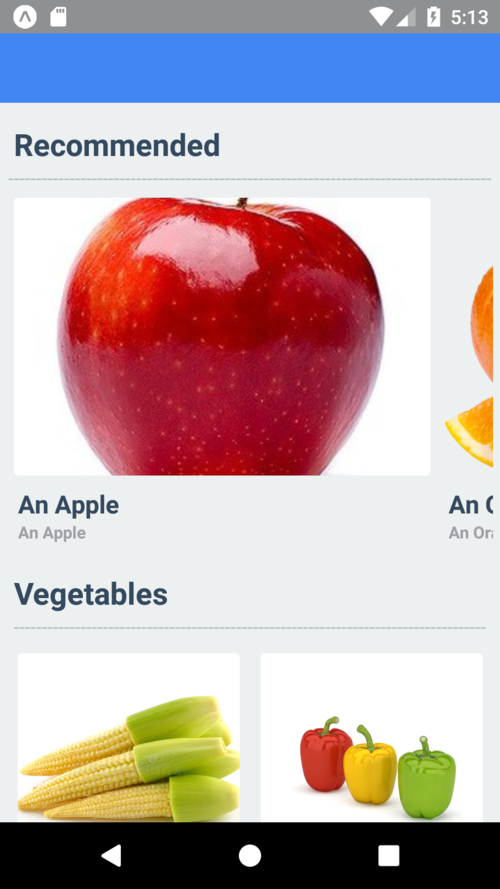
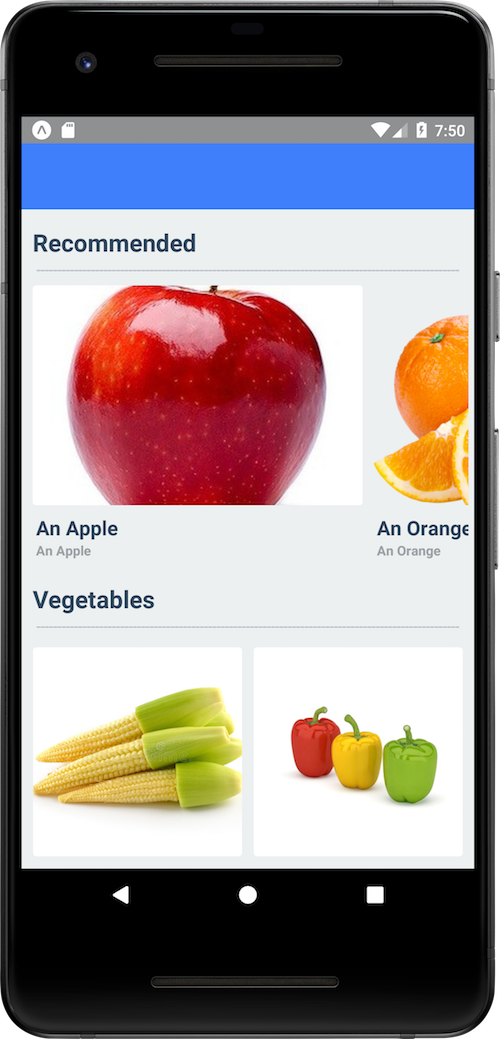
update screenshots

diff --git a/components/CarouselComponent.js b/components/CarouselComponent.js
@@ -19,7 +19,7 @@ export default class CarouselComponent extends Component {
     return (
       <View>
         <Text style={styles.paragraph}>{this.props.title}</Text>
-        <Text style={styles.underline}>---------------------------------------------------------------------------------------</Text>
+        <Text style={styles.underline}>-----------------------------------------------------------------------------------------------------</Text>
         <View style={styles.container}>
           <ListView
             horizontal={true}

diff --git a/components/GridComponent.js b/components/GridComponent.js
@@ -16,7 +16,7 @@ export default class GridComponent extends Component {
     return (
       <View>
         <Text style={styles.paragraph}>{this.props.title}</Text>
-        <Text style={styles.underline}>-------------------------------------------------------------------------------------</Text>
+        <Text style={styles.underline}>-----------------------------------------------------------------------------------------------------</Text>
         <View style={styles.container}>
           <GridView
               itemDimension={130}

diff --git a/App.js b/App.js
@@ -43,9 +43,9 @@ export default class App extends Component {
 
 const styles = StyleSheet.create({
   toolbar: {
-    height: 50,
+    height: 60,
     width: 1000,
-    backgroundColor: "#4286f4"
+    backgroundColor: "#407ffb"
   },
   container: {
     flex: 1,

diff --git a/components/GridItemComponent.js b/components/GridItemComponent.js
@@ -26,8 +26,8 @@ export default class GridItemComponent extends Component {
   }
 }
 
-const width = 160,
-  height = 160,
+const width = 190,
+  height = 190,
   borders = {
     tl: 3,
     tr: 3,
